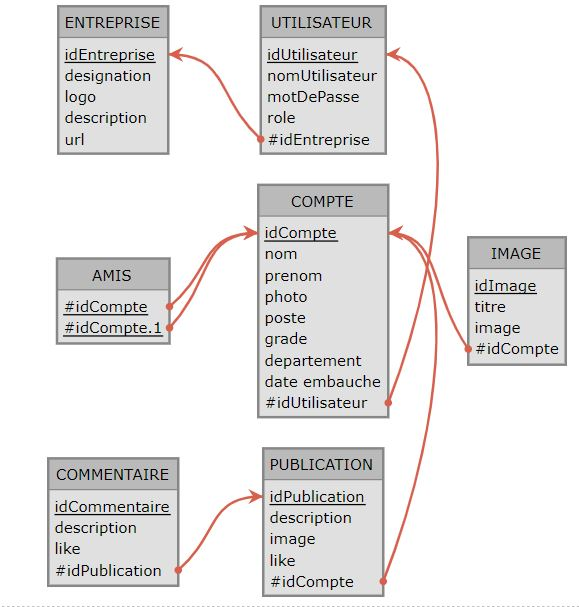
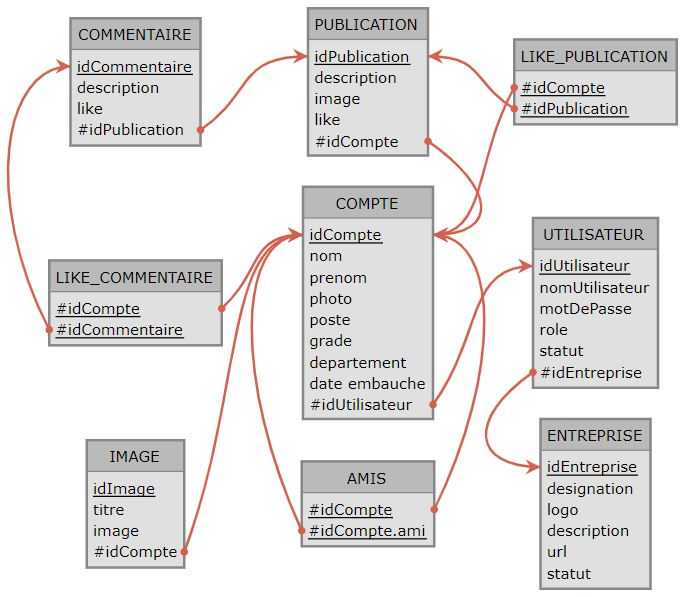
modif UML

diff --git a/Modelisation+SQL/SocialConnect-MLD.html b/Modelisation+SQL/SocialConnect-MLD.html
@@ -10,6 +10,14 @@
 <body>
 <div id='mld'>
 <div>
+  <span class='relation'>COMMENTAIRE</span> (
+    <span class='primary'>idCommentaire</span>,
+    <span class='normal'>description</span>,
+    <span class='normal'>like</span>,
+    <span class='foreign'>idPublication</span>
+  )
+</div>
+<div>
   <span class='relation'>PUBLICATION</span> (
     <span class='primary'>idPublication</span>,
     <span class='normal'>description</span>,
@@ -19,20 +27,17 @@
   )
 </div>
 <div>
-  <span class='relation'>ENTREPRISE</span> (
-    <span class='primary'>idEntreprise</span>,
-    <span class='normal'>designation</span>,
-    <span class='normal'>logo</span>,
-    <span class='normal'>description</span>,
-    <span class='normal'>url</span>
+  <span class='relation'>IMAGE</span> (
+    <span class='primary'>idImage</span>,
+    <span class='normal'>titre</span>,
+    <span class='normal'>image</span>,
+    <span class='foreign'>idCompte</span>
   )
 </div>
 <div>
-  <span class='relation'>COMMENTAIRE</span> (
-    <span class='primary'>idCommentaire</span>,
-    <span class='normal'>description</span>,
-    <span class='normal'>like</span>,
-    <span class='foreign'>idPublication</span>
+  <span class='relation'>LIKE_COMMENTAIRE</span> (
+    <span class='foreign primary'>idCompte</span>,
+    <span class='foreign primary'>idCommentaire</span>
   )
 </div>
 <div>
@@ -41,13 +46,14 @@
     <span class='normal'>nomUtilisateur</span>,
     <span class='normal'>motDePasse</span>,
     <span class='normal'>role</span>,
+    <span class='normal'>statut</span>,
     <span class='foreign'>idEntreprise</span>
   )
 </div>
 <div>
-  <span class='relation'>AMIS</span> (
+  <span class='relation'>LIKE_PUBLICATION</span> (
     <span class='foreign primary'>idCompte</span>,
-    <span class='foreign primary'>idCompte.ami</span>
+    <span class='foreign primary'>idPublication</span>
   )
 </div>
 <div>
@@ -64,11 +70,19 @@
   )
 </div>
 <div>
-  <span class='relation'>IMAGE</span> (
-    <span class='primary'>idImage</span>,
-    <span class='normal'>titre</span>,
-    <span class='normal'>image</span>,
-    <span class='foreign'>idCompte</span>
+  <span class='relation'>ENTREPRISE</span> (
+    <span class='primary'>idEntreprise</span>,
+    <span class='normal'>designation</span>,
+    <span class='normal'>logo</span>,
+    <span class='normal'>description</span>,
+    <span class='normal'>url</span>,
+    <span class='normal'>statut</span>
+  )
+</div>
+<div>
+  <span class='relation'>AMIS</span> (
+    <span class='foreign primary'>idCompte</span>,
+    <span class='foreign primary'>idCompte.ami</span>
   )
 </div>
 </div>

diff --git a/Modelisation+SQL/SocialConnect-Table.md b/Modelisation+SQL/SocialConnect-Table.md
@@ -1,9 +1,11 @@
 # Table
 
-**PUBLICATION** (idPublication, description, image, like, idCompte)  
-**ENTREPRISE** (idEntreprise, designation, logo, description, url)  
-**COMMENTAIRE** (idCommentaire, description, like, idPublication)  
-**UTILISATEUR** (idUtilisateur, nomUtilisateur, motDePasse, role, idEntreprise)  
-**AMIS** (idCompte, idCompte.1)  
-**COMPTE** (idCompte, nom, prenom, photo, poste, grade, departement, date embauche, idUtilisateur)  
-**IMAGE** (idImage, titre, image, idCompte)
+**COMMENTAIRE** ( idCommentaire, description, like, #idPublication )
+**PUBLICATION** ( idPublication, description, image, like, #idCompte )
+**LIKE_PUBLICATION** ( #idCompte, #idPublication )
+**LIKE_COMMENTAIRE** ( #idCompte, #idCommentaire )
+**COMPTE** ( idCompte, nom, prenom, photo, poste, grade, departement, date embauche, #idUtilisateur )
+**UTILISATEUR** ( idUtilisateur, nomUtilisateur, motDePasse, role, statut, #idEntreprise )
+**IMAGE** ( idImage, titre, image, #idCompte )
+**AMIS** ( #idCompte, #idCompte.ami )
+**ENTREPRISE** ( idEntreprise, designation, logo, description, url, statut )

diff --git a/Modelisation+SQL/Social-Connect_data_dict.md b/Modelisation+SQL/Social-Connect_data_dict.md
@@ -48,6 +48,24 @@
 | IdCompte | Identifiant du compte | Char | Clé étrangère |
 | IdCompte_ami | Identifiant du pilote | Char | Clé étrangère |
 
+## LIKE_PUBLICATION
+
+| Nom | Description | Type | Commentaire |
+| :--------------- |:---------------:|:---------------:| -----:|
+| IdPublication | Identifiant de la publication | Char | Clé primaire |
+| IdCompte | Identifiant du compte | Char | Clé primaire |
+| IdPublication | Identifiant de la publication | Char | Clé étrangère |
+| IdCompte | Identifiant du compte | Char | Clé étrangère |
+
+## LIKE_COMMENTAIRE
+
+| Nom | Description | Type | Commentaire |
+| :--------------- |:---------------:|:---------------:| -----:|
+| IdCommentaire | Identifiant du commentaire | Char | Clé primaire |
+| IdCompte | Identifiant du compte | Char | Clé primaire |
+| IdCommentaire | Identifiant du commentaire | Char | Clé étrangère |
+| IdCompte | Identifiant du compte | Char | Clé étrangère |
+
 ## COMPTE
 
 | Nom | Description | Type | Commentaire |
